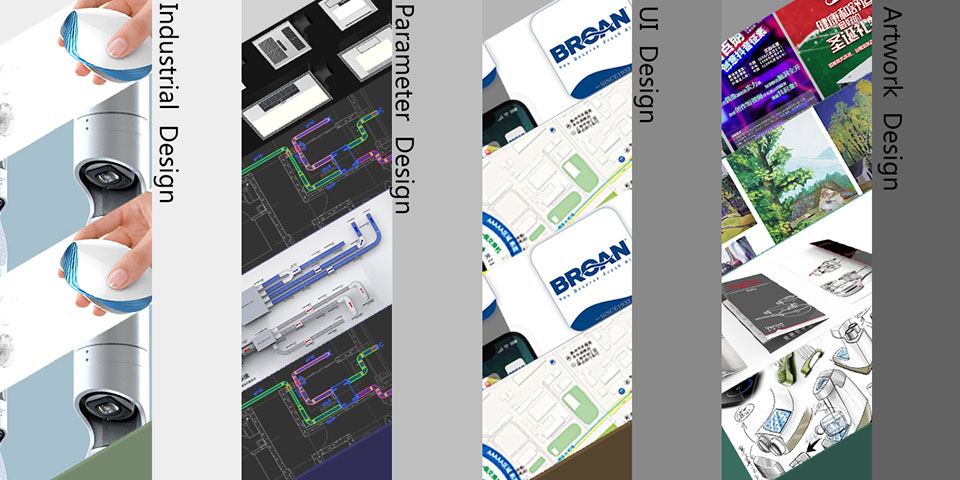
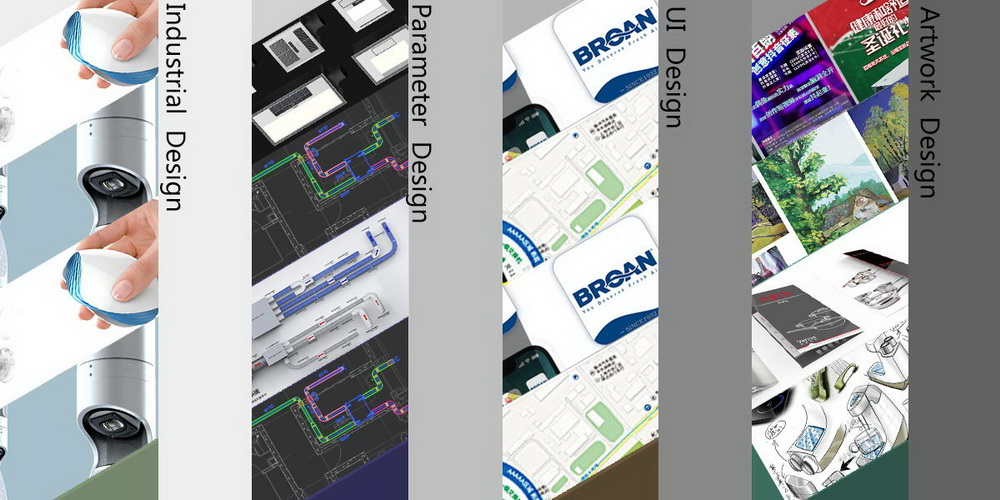
111

diff --git a/index.html b/index.html
@@ -25,7 +25,7 @@
 <div id="box01">
 
 	<div align="center"><p><font size="2">- 2020 -</font></p></div>
-	<div align="center"><img src="data/index/0designwork.gif" width="50%"/></div>
+	<div align="center"><img src="data/index/0designwork.jpg" width="70%"/></div>
 	<img src="data/index/content2.jpg" width="100%"/>	
 <br><br>
 
@@ -36,9 +36,10 @@
 	
 
 		<div class="item1">
-			<a href="data/ui/ui.html"><img src="data/index/a1.jpg" width="960"/></a>
-			<div class="mb1"><h3><font color="white">Air Detector 便携式空气质量仪<br>假字假字假字假字假字假字假字假字假字假字假字假字假字假字假字假字假字假字假字假字假字假字假字假字假字假字假字假字假字假字假字假字假字假字假字假字假字假字假字假字假字假字</font></h3>
-			<a href="data/B air detector/0 Broan01 air detector.html">了解更多...  more...</></a>	
+			<a href="data/2019_AirD/2019_AirD.html"><img src="data/index/2019_AirD.jpg" width="960"/></a>
+			<div class="mb1"><h2><font color="white">Air Detector 便携式空气质量仪</font></h2>
+					<h3><font color="white">自己身处何种空气质量中?这样的问题一直被人们忽略。</b>不禁因为大家对空气质量的意识不高，而且也碍于没有办法即刻对身边空气质量做判断。但是随着人们意识的提高，技术的进步，随身式的便携气体检测仪的设计就应运而生。</font></h3>
+			<a href="data/2019_AirD/2019_AirD.html">了解更多...  more...</></a>	
 			</div>		    
         	</div>	
 		

diff --git a/data/2019_AirD/2019_AirD.html b/data/2019_AirD/2019_AirD.html
@@ -1,0 +1,64 @@
+<html>
+<head>
+<title>-Luxin-Industrial Design-</title>
+
+<style>
+	body{ font-family:"Microsoft YaHei";}
+	*{margin:0 auto;}
+	#box{
+		width:700px;background-color:#f7f8f8;
+		margin:0 auto;
+	}
+
+</style>
+</head>
+
+<body>
+
+<div id="box">
+	
+	
+		<div style="border-bottom:1px solid #505050" align="left"><p><font size="4" color="#505050">Industrial Design</font></p></div>
+<br>
+
+		<h1 align="center"><font color="#7f8c8b">便携PM2.5检测仪:贴身的空气护卫</font></h1><br>
+		<p><font size="4" color="#7f8c8b">自己身处何种空气质量中?这样的问题一直被人们忽略。</b>不禁因为大家对空气质量的意识不高，而且也碍于没有办法即刻对身边空气质量做判断。但是随着人们意识的提高，技术的进步，随身式的便携气体检测仪的设计就应运而生。</font></p>
+<br>
+		<img src="2019_AirD_01.jpg" width="100%"/>
+
+<br><br>
+		
+		<img src="2019_AirD_02.jpg" width="100%"/>
+
+<br><br>
+		
+		<img src="2019_AirD_03.jpg" width="100%"/>
+
+<br><br>
+		
+		<img src="2019_AirD_05.jpg" width="100%"/>
+
+<br><br>
+		
+		<img src="2019_AirD_07.jpg" width="100%"/>
+
+<br><br>
+		
+		<img src="2019_AirD_08.jpg" width="100%"/>
+
+
+
+<br><br>
+	<div align="center"><input type="button" value="← Back" onclick="history.go(-1)" /></div>
+<br>
+	<div style="border-top:1px solid #505050" align="center"><p><font size="4" color="#505050">Industrial Design</font></p></div>
+
+			
+</div>	
+
+
+
+
+</body>
+</html>
+
